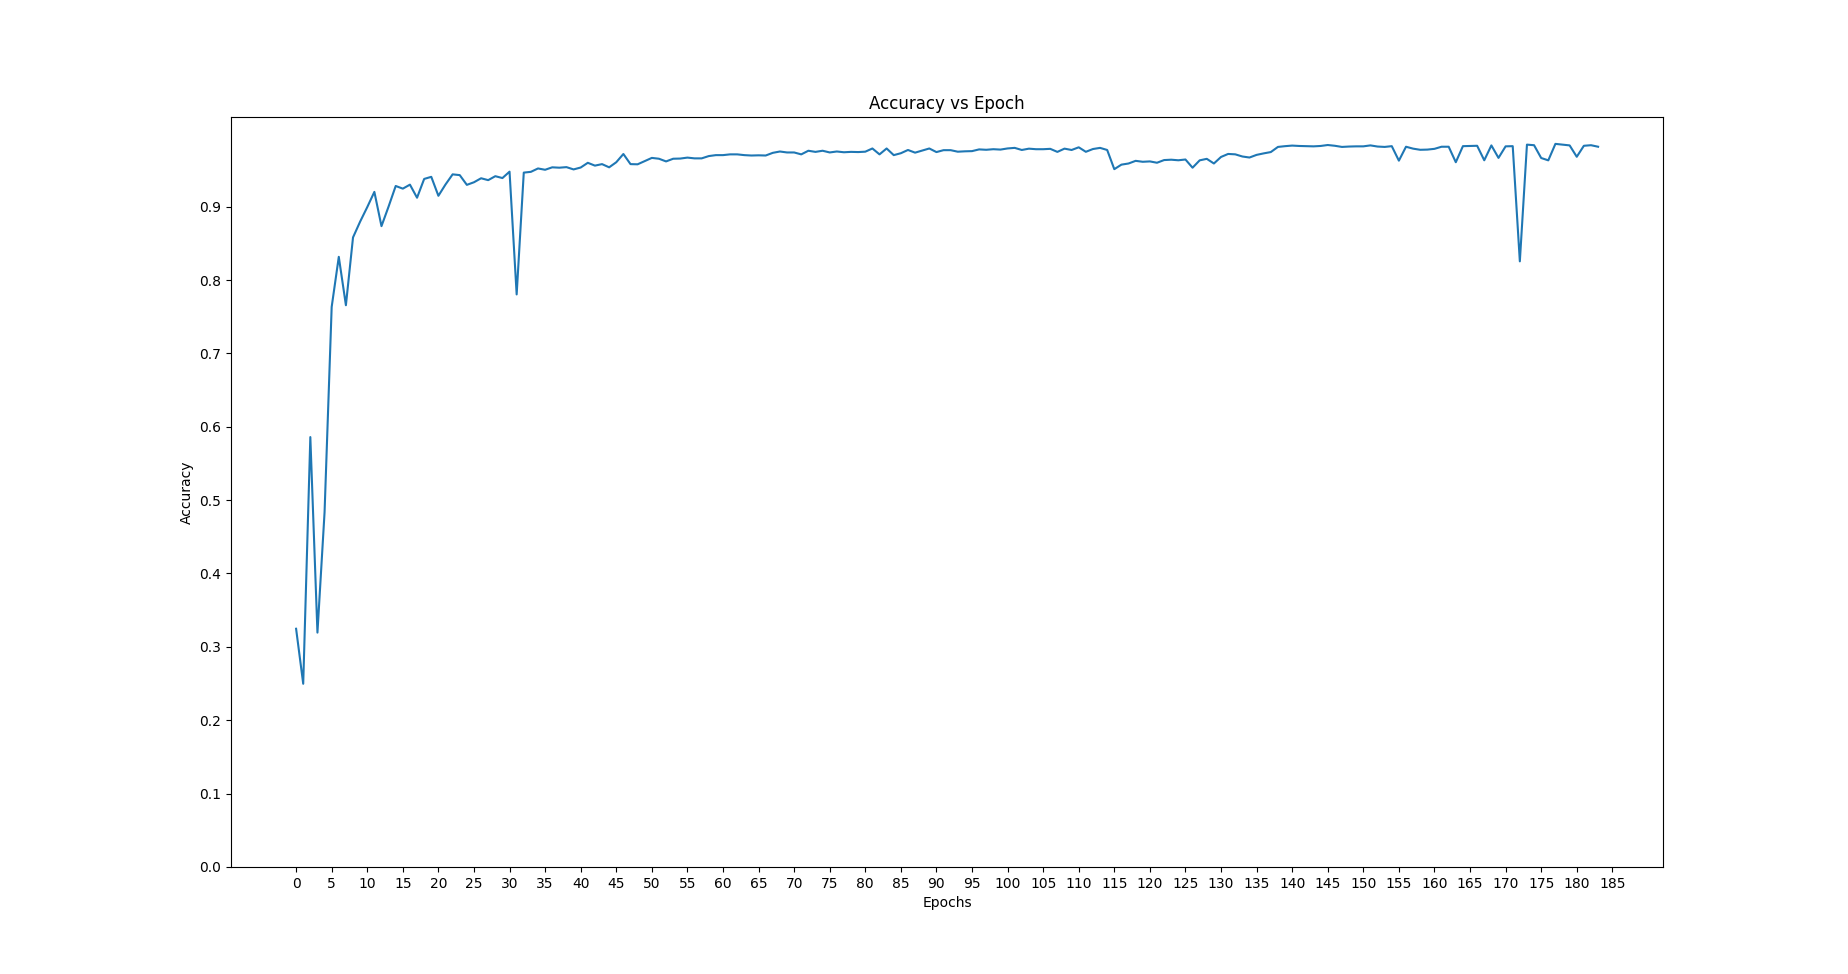
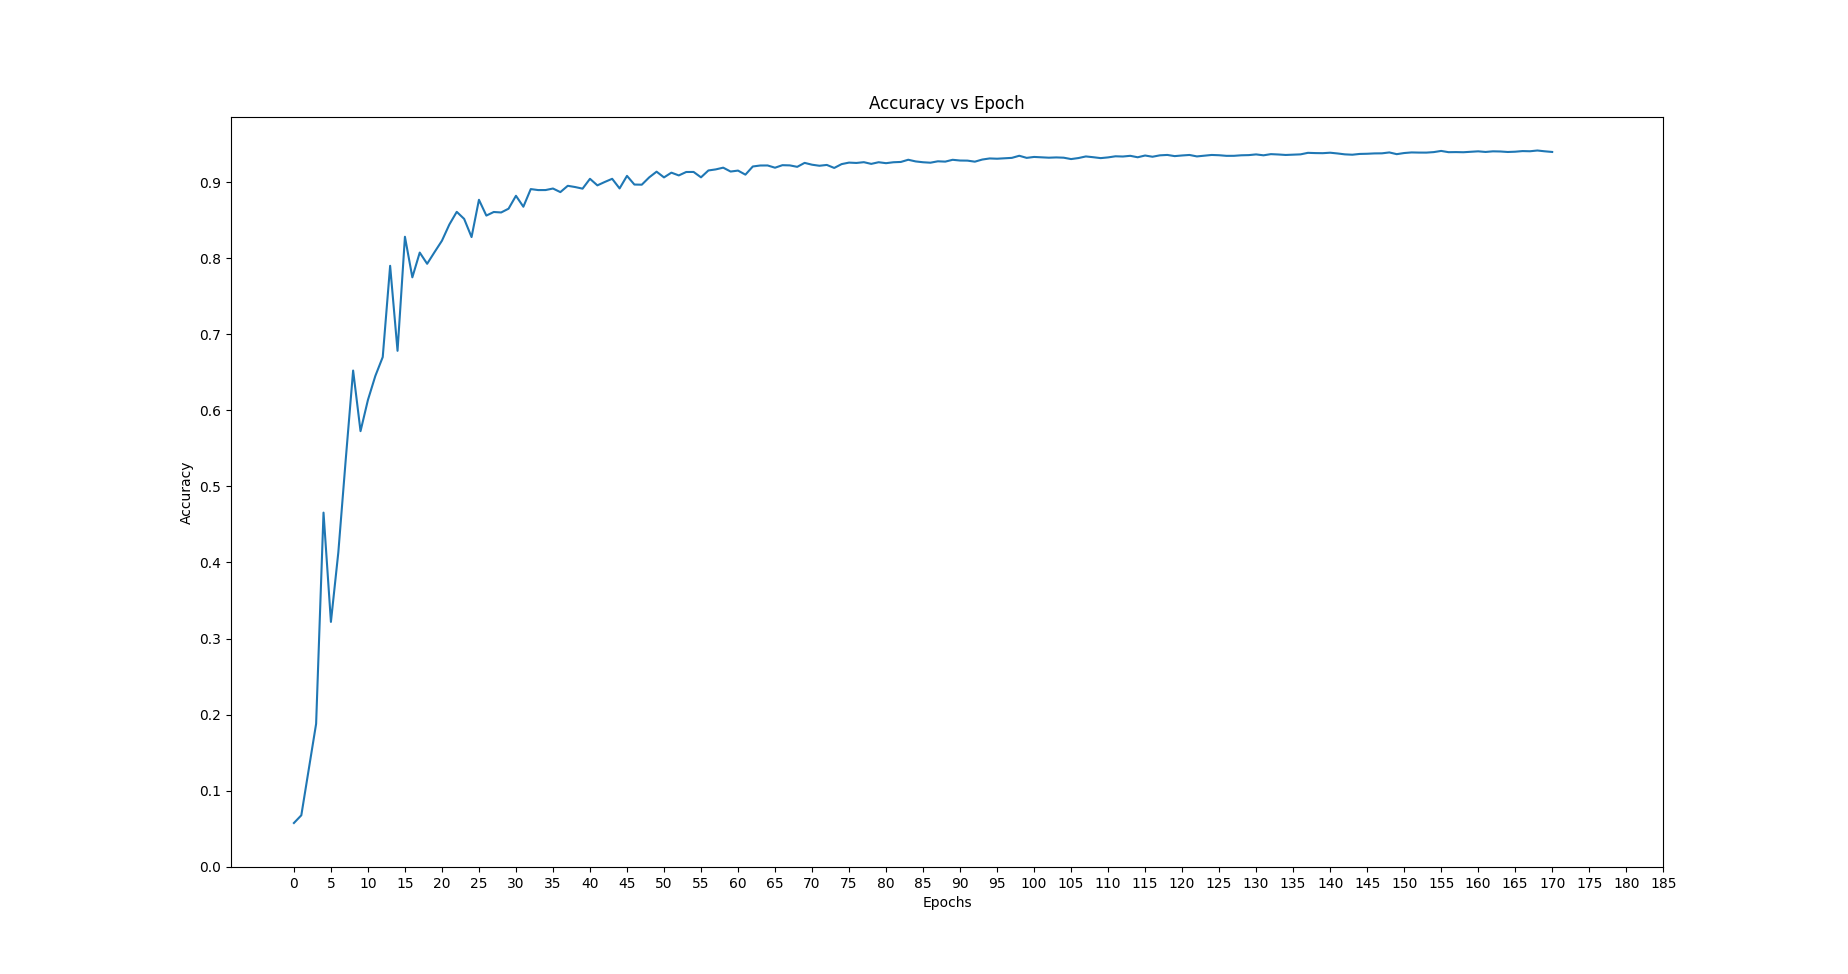
py images

diff --git a/server/logs/logParser.py b/server/logs/logParser.py
@@ -5,8 +5,8 @@ file = open("pyscheduler.log")
 
 content = file.readlines()
 
-lineIdx = 4
-lineInc = 5
+lineIdx = 30
+lineInc = 31
 
 nLines = len(content)
 
@@ -33,7 +33,7 @@ plt.ylabel('Accuracy')
 plt.title('Accuracy vs Epoch')
 plt.show()
 
-x_ticks = np.arange(0, 4100, 500)
+x_ticks = np.arange(0, 13500, 1000)
 y_ticks = np.arange(0, 1, 0.1)
 plt.plot(cumtimes, accuracy)
 plt.xticks(x_ticks)
